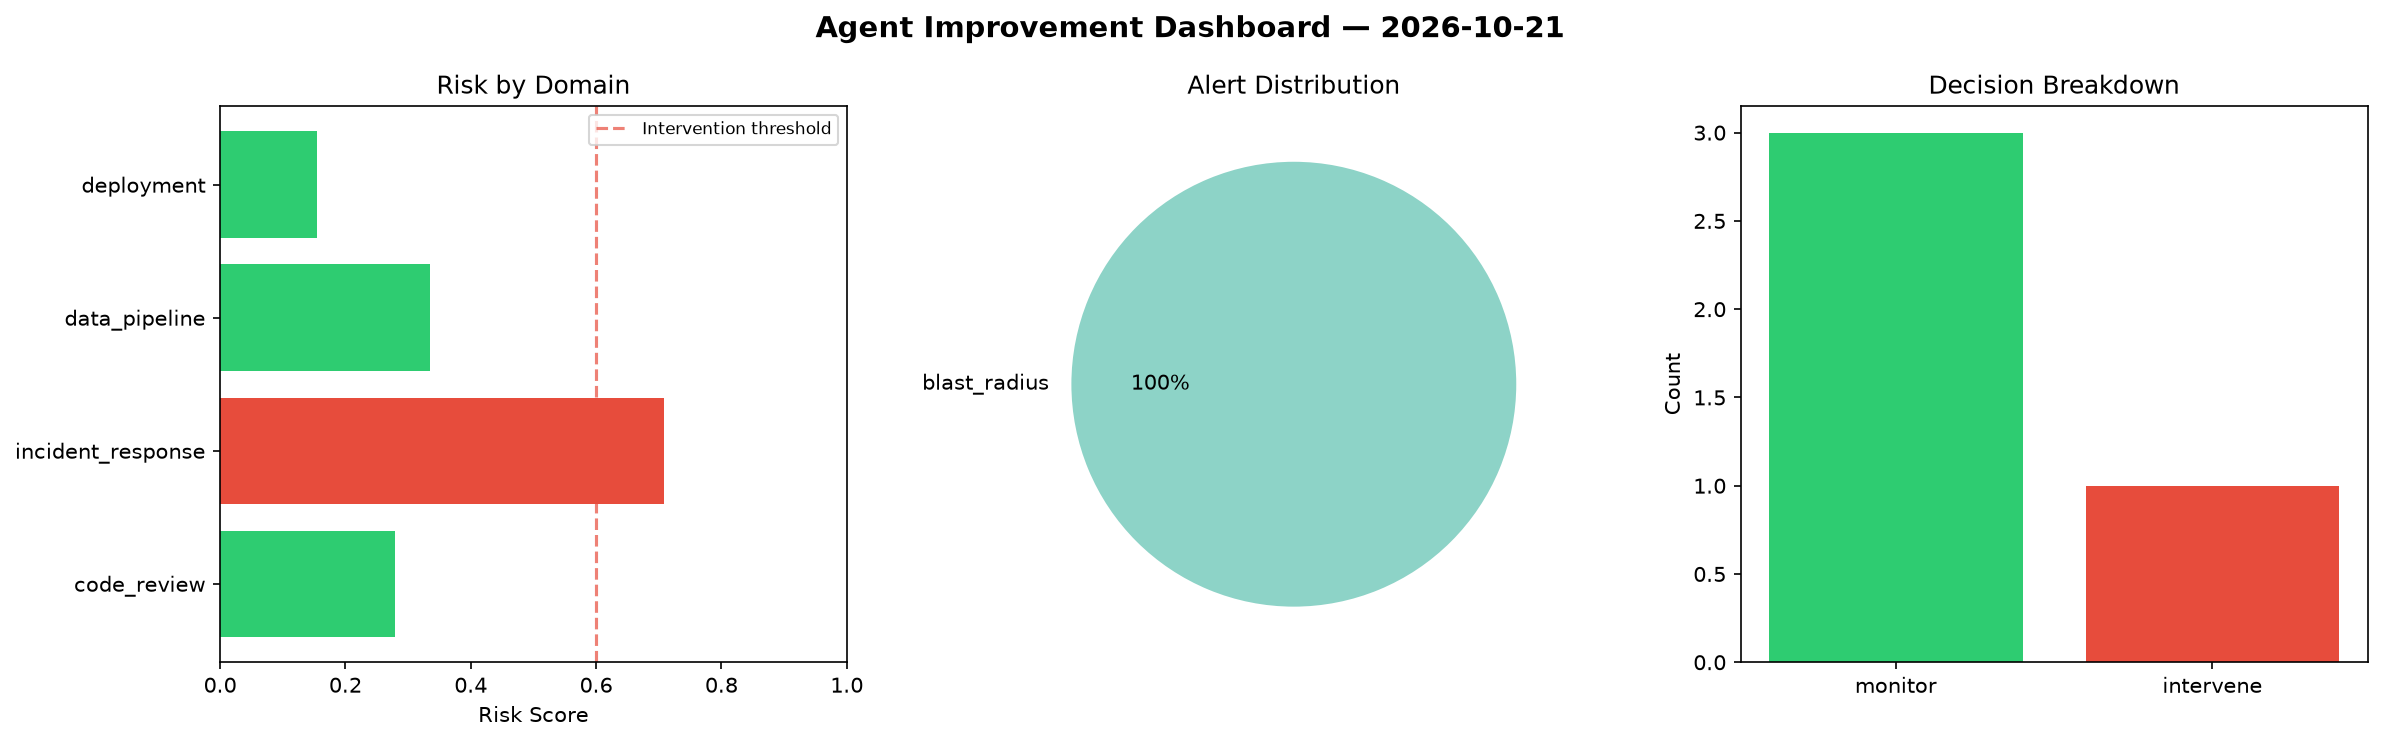
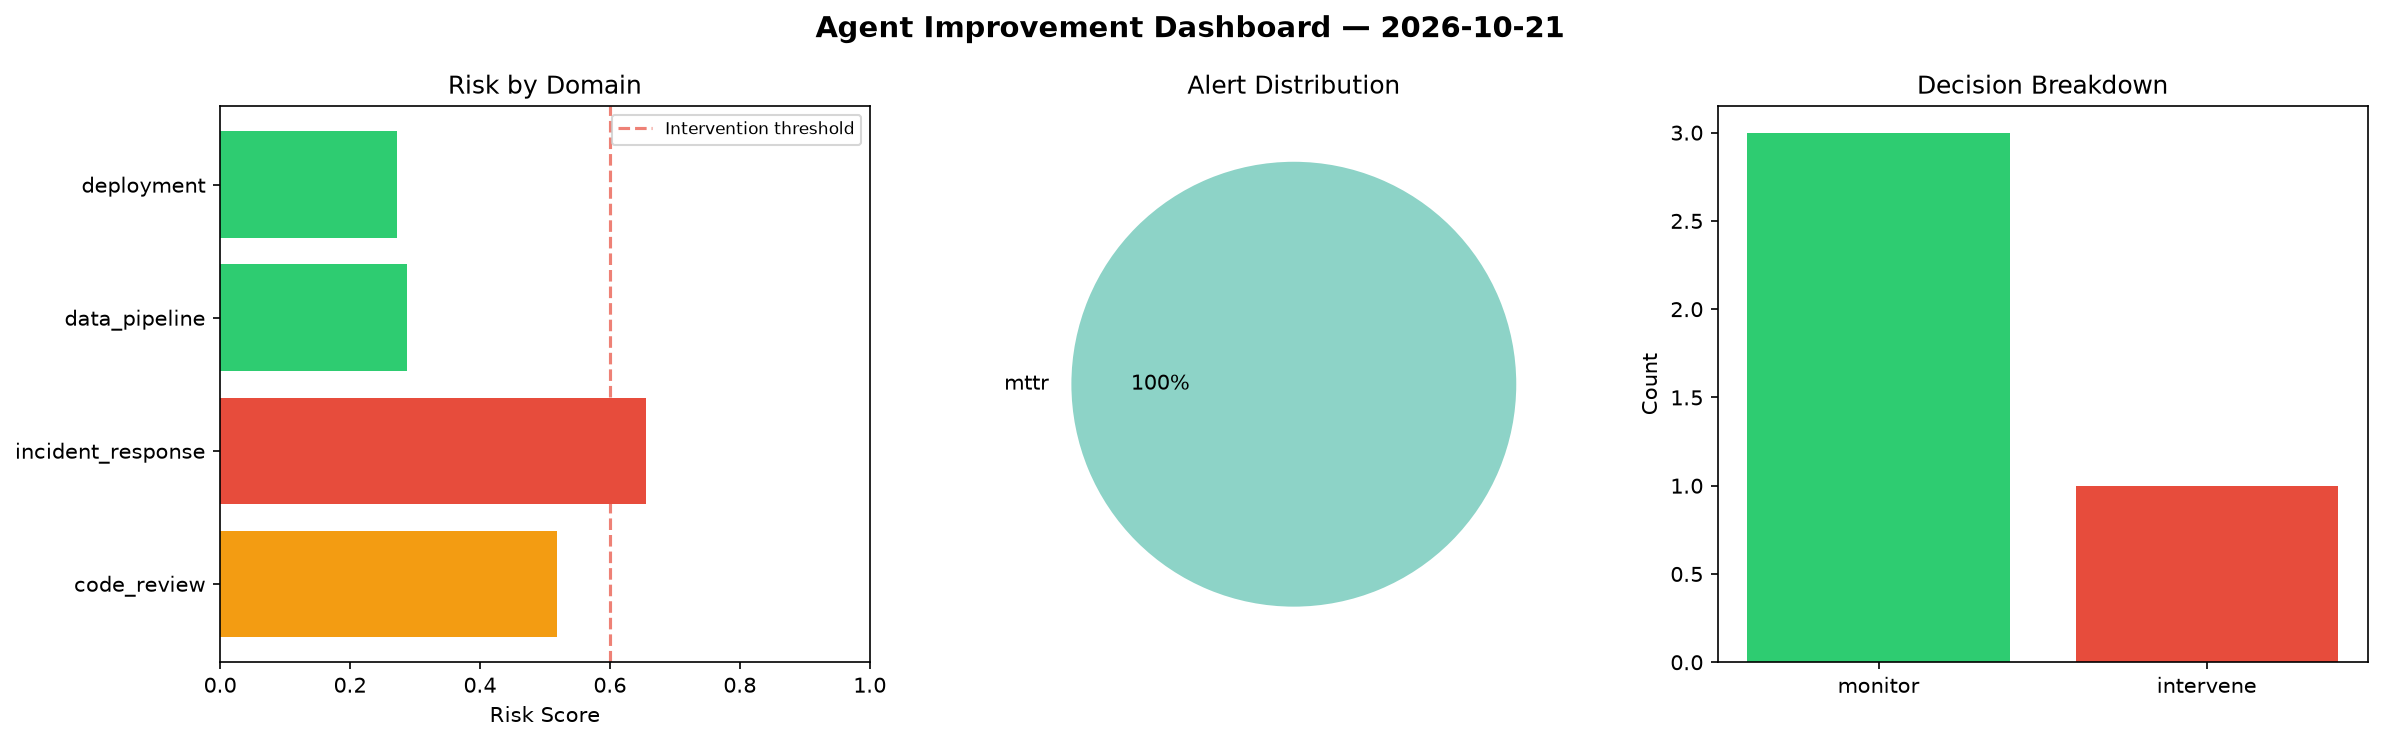
agent-improvement: daily cycle 2026-10-21T13:47

diff --git a/logs/2026-10-21.md b/logs/2026-10-21.md
@@ -1,6 +1,6 @@
 # Agent Improvement Report — 2026-10-21
 
-**Cycle ID:** `e97d1c96` | **Avg Risk:** 0.369 | **Interventions:** 1/4
+**Cycle ID:** `0688209e` | **Avg Risk:** 0.4332 | **Interventions:** 1/4
 
 ![Dashboard](2026-10-21_dashboard.png)
 
@@ -10,18 +10,18 @@
 
 | Domain | Risk Score | Decision | Alerts |
 |--------|-----------|----------|--------|
-| code_review | 0.2786 | monitor | none |
-| incident_response | 0.7086 | intervene | blast_radius |
-| data_pipeline | 0.3345 | monitor | none |
-| deployment | 0.1541 | monitor | none |
+| code_review | 0.518 | monitor | none |
+| incident_response | 0.6555 | intervene | mttr |
+| data_pipeline | 0.2872 | monitor | none |
+| deployment | 0.2722 | monitor | none |
 
 ## Delta vs Yesterday
 
 | Domain | Today | Yesterday | Change |
 |--------|-------|-----------|--------|
-| code_review | 0.2786 | 0.5076 | 📉 -45.1% |
-| incident_response | 0.7086 | 0.313 | 📈 126.4% |
-| data_pipeline | 0.3345 | 0.6036 | 📉 -44.6% |
-| deployment | 0.1541 | 0.4766 | 📉 -67.7% |
+| code_review | 0.518 | 0.5076 | 📈 2.0% |
+| incident_response | 0.6555 | 0.313 | 📈 109.4% |
+| data_pipeline | 0.2872 | 0.6036 | 📉 -52.4% |
+| deployment | 0.2722 | 0.4766 | 📉 -42.9% |
 
 **Refinement:** `{'adjustment': 'maintain', 'trend': 'improving', 'window': 4}`
